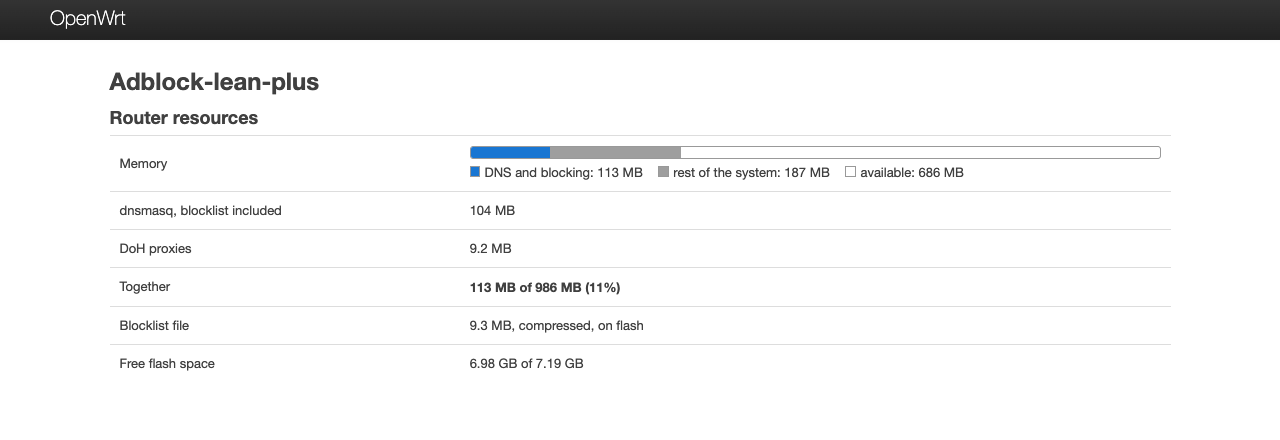
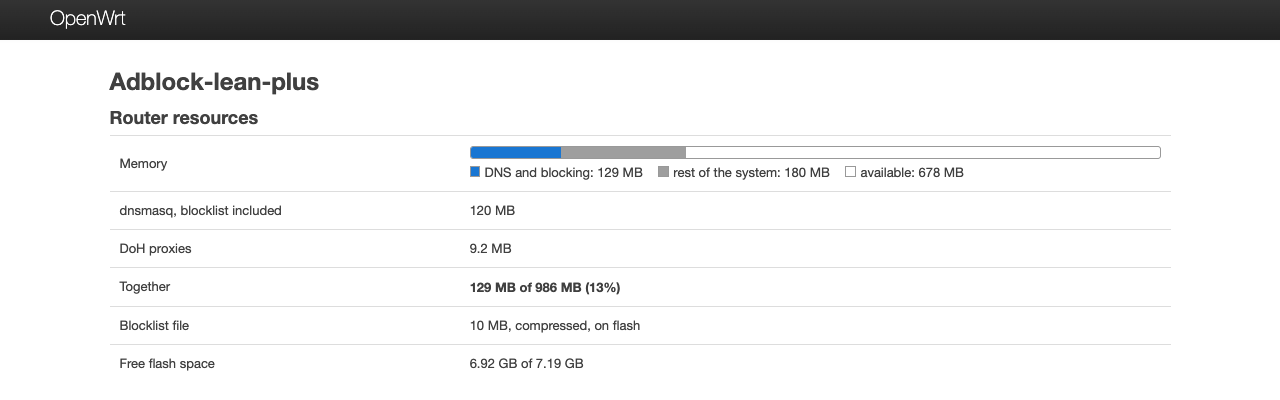
README: new screenshots with list status; firmware upgrade and backup size notes

diff --git a/README.md b/README.md
@@ -47,7 +47,7 @@ benchmark from a LAN client.
 | Blocked domain, median | 3–4 ms | 2 ms |
 | Uncached queries | depend on the upstream | no consistent difference |
 | List update (7 lists) | in the background | 51 s (TIF full: 140 s), once a day |
-| Filtering right after boot | yes | with `--persist` (early boot script); otherwise after the lists are loaded |
+| Filtering right after boot | yes | with `--persist` (early boot script), also after a firmware upgrade; otherwise after the lists are loaded |
 | Web UI cost | always running | none unless a page is open; no measurable effect on DNS latency |
 | Query log, statistics, per-client rules | yes | no |
 
@@ -88,8 +88,8 @@ CPU was no argument against AdGuard Home in our runs (13.9 s, measured at anothe
 | **Subscriptions** | **AdGuard Home's list catalog** |
 | [![Subscriptions](docs/screenshots/subscriptions.png)](docs/screenshots/subscriptions.png) | [![Catalog](docs/screenshots/adguard-catalog.png)](docs/screenshots/adguard-catalog.png) |
 
-Rendered from this repository's view files with data captured from a router running it (LuCI default theme); the
-"Last update" column is filled in for the captured update.
+Rendered from this repository's view files with data captured on 2026-11-27 from a router running it (LuCI default
+theme). The "Last update" column on the subscriptions page shows how each list's last download went ([List status](#list-status)).
 
 ## ✅ Requirements
 
@@ -132,7 +132,7 @@ done.
 | `--utils` / `--no-utils` | gawk, GNU sed, coreutils-sort: list processing is faster with them |
 | `--preset NAME` | mini, small, medium, large or huge (default: chosen from RAM) |
 | `--lists adguard` | add AdGuard DNS filter and AdGuard Popup Hosts to the preset's HaGeZi lists |
-| `--persist` | keep the blockset on flash: filtering right after boot, but several MB rewritten on every update (good for eMMC/SSD/USB) |
+| `--persist` | keep the blockset on flash: filtering right after boot and after a firmware upgrade, but ~10 MB rewritten on every update (good for eMMC/SSD/USB), and router backups grow by as much (see "After an OpenWrt firmware upgrade" under [Uninstall](#uninstall)) |
 | `--instance NAME` | dnsmasq instance to filter (needed only when there are several) |
 | `--start`, `--enable` | download the lists now; start at boot (`--no-start`, `--no-enable`) |
 | `--upgrade` | replace the scripts of an existing installation, keep configs |
@@ -203,9 +203,11 @@ after boot. With "start at boot" off nothing is kept: save a [backup](#backup-an
 afterwards.
 
 The web pages and the blocklist are kept only by versions from 2026-11-27 on, once they have started once. With an
-older version, run `adblock-lean-plus-update` after the upgrade to get the pages back. The list of kept files also
-decides what a router backup (System → Backup) holds: with the blocklist on flash, a backup grows by about its size
-(~10 MB for 1.4 million domains).
+older version, run `adblock-lean-plus-update` after the upgrade to get the pages back.
+
+**Router backups get bigger with the blocklist on flash.** The files a firmware upgrade keeps are also what a router
+backup (System → Backup, `sysupgrade -b`) contains, so every such backup includes the saved blocklist: about +10 MB
+for 1.6 million domains. Without it backups stay small, and the lists are downloaded again after an upgrade.
 
 A plain `sysupgrade` that keeps the settings drops added packages such as `https-dns-proxy` while dnsmasq still
 forwards to it, so DNS stops working. Give dnsmasq the internet connection's DNS back, then update:
@@ -333,7 +335,8 @@ A list that can not be downloaded is skipped and the update goes on without it, 
 Reasons: HTTP error, server not reachable, timed out, not a block list, too few usable entries (also a web page served
 as an AdGuard or hosts list), larger than the size limit, processing failed. A list that moved and is no longer served
 at the old address shows up this way; an abandoned list that can still be downloaded does not. The results are kept in
-`/etc/adblock-lean/list-status` (two or three small writes per update), so they survive a reboot. They appear after the
+`/etc/adblock-lean/list-status` (two or three small writes per update), so they survive a reboot and, while "start at
+boot" is on, a firmware upgrade. They appear after the
 first update with this version.
 
 ### Backup and import
@@ -344,6 +347,9 @@ LuCI → Services → Adblock-lean-plus, section **Backup**: "Download backup" s
 then choose "Update lists now". Not in the file: DNS/DoH settings, the size limits of the preset and other options of the
 adblock-lean config files (such as allowlist-only mode). A hand-written
 update schedule (not "daily at …") is saved but not restored. Importing "start at boot: no" also stops blocking.
+
+This backup is a small JSON file. The router's own backup (System → Backup) is a different thing: with the blocklist
+kept on flash it also contains that blocklist, about 10 MB.
 
 ### Input limits
 
